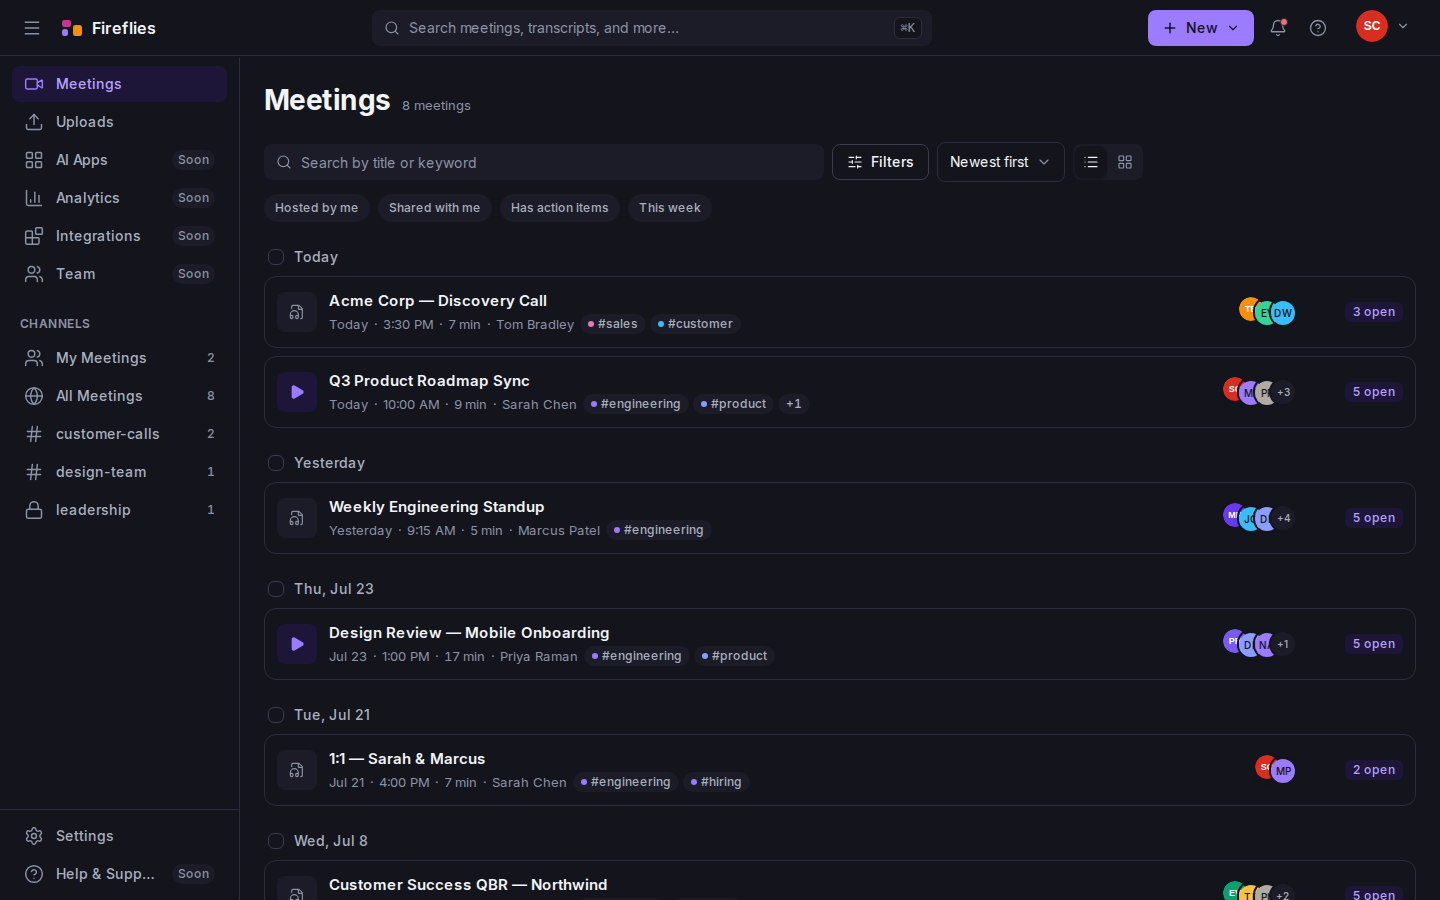
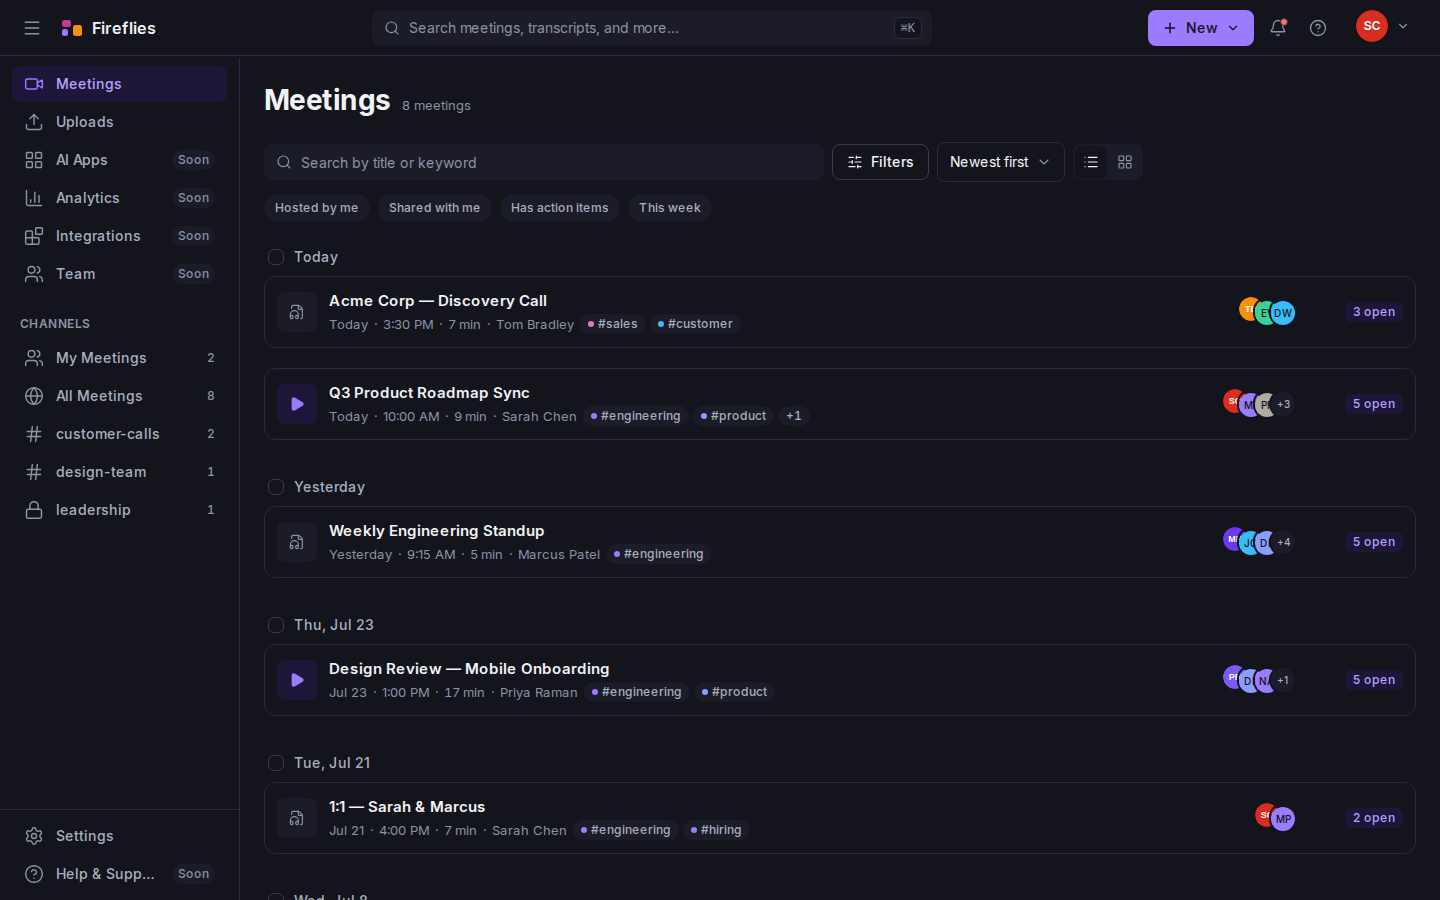
T-46.1: take the notebook's vertical rhythm from the reference (ADR-149)
The audit's "Measured, not eyeballed" table marked four metrics exact — and
they are, against design.md. That is our spec, not Fireflies', so it was
reporting conformance to ourselves as fidelity to them.

Measured against the reference PNG instead, as ratios (the captures differ in
width and the reference's DPR is unknown). Type scale was right at 0.268 vs
0.255. Density was not: the gap between cards inside one date group was 0.127
of card height against their 0.274 — less than half. Several side-by-side
passes on the same day never showed it. It took measuring.

Both gaps now come from the reference: row-gap 20px, group-gap 36px, named in
tailwind.config.ts with the derivation. Measured after: 0.296 and 0.944
against 0.274 and 0.94.

Row height stays 72px though it is 15% tighter than theirs. That token is
load-bearing where the gaps are not — design.md fixes it, T12-B asserts it,
ADR-036 kept it deliberately, and the virtualiser sizes items from it, so a
wrong value breaks scrolling rather than looking slightly off. Recorded open.

The skeleton needed restructuring: it flattened heading-to-card and
card-to-card into one space-y-2, so once those diverged it would have stood in
for a list taller than itself and content would have jumped on load — the one
thing a skeleton exists to prevent. No test asserts inter-row gaps, only row
height, so nothing would have caught it.

Six baselines moved, all notebook, which is the evidence the change stayed
where it was aimed.

diff --git a/frontend/src/components/ui/skeleton.tsx b/frontend/src/components/ui/skeleton.tsx
@@ -137,7 +137,7 @@ export function MeetingListSkeleton({
       aria-label="Loading meetings"
       // Matches the real list's group spacing, so the whole block is the same
       // height as what replaces it.
-      className="space-y-6"
+      className="space-y-group-gap"
     >
       {groups.map((size, groupIndex) => (
         <div key={groupIndex} className="space-y-2">
@@ -146,9 +146,20 @@ export function MeetingListSkeleton({
             <Skeleton variant="rect" className="h-4 w-4 shrink-0" />
             <Skeleton variant="text" className="h-[22px] w-24" />
           </div>
-          {Array.from({ length: size }, (_, index) => (
-            <MeetingRowSkeleton key={index} idSuffix={idSuffix} />
-          ))}
+          {/*
+            The rows get their OWN wrapper, because the real list spaces
+            heading-to-first-card (8px, this div) differently from card-to-card
+            (`row-gap`, the <ul>). Flattening both into one `space-y-2` here —
+            which is what this used to do — would make the skeleton shorter
+            than the list it stands in for, and the content would jump the
+            moment real rows arrived. That is the one thing a skeleton exists
+            to prevent.
+          */}
+          <div className="space-y-row-gap">
+            {Array.from({ length: size }, (_, index) => (
+              <MeetingRowSkeleton key={index} idSuffix={idSuffix} />
+            ))}
+          </div>
         </div>
       ))}
     </div>

diff --git a/frontend/tailwind.config.ts b/frontend/tailwind.config.ts
@@ -234,6 +234,21 @@ const config: Config = {
         'rail-collapsed': '64px',
         'icon-rail': '56px',
         row: '72px',
+
+        /*
+         * Notebook list rhythm, derived from `docs/reference/fireflies/02.png`
+         * rather than chosen (T-46.1, ADR-149). Measured as ratios of card
+         * height, because the reference was captured at a different width:
+         *
+         *   between cards in one date group   0.274 x card  ->  0.274 x 72 = 20px
+         *   across a date-group heading       0.94  x card  ->  67px total,
+         *     of which the heading and its own 8px gap supply 31 -> 36px here
+         *
+         * Named, not inlined, because the skeleton has to mirror them exactly
+         * or the list jumps when real rows replace it.
+         */
+        'row-gap': '20px',
+        'group-gap': '36px',
         'btn-sm': '32px',
         'btn-md': '36px',
         'btn-lg': '40px',

diff --git a/frontend/src/features/notebook/notebook-view.tsx b/frontend/src/features/notebook/notebook-view.tsx
@@ -622,7 +622,12 @@ function GroupedList({
   }
 
   return (
-    <div ref={listRef} onKeyDown={onKeyDown} className="space-y-6" data-testid="meeting-list">
+    <div
+      ref={listRef}
+      onKeyDown={onKeyDown}
+      className="space-y-group-gap"
+      data-testid="meeting-list"
+    >
       {groups.map((group) => {
         const groupIds = group.items.map((m) => m.id)
         const allSelected = groupIds.every((id) => selection.isSelected(id))
@@ -644,7 +649,7 @@ function GroupedList({
               </div>
             )}
 
-            <ul className="space-y-2">
+            <ul className="space-y-row-gap">
               {group.items.map((meeting) => (
                 <MeetingRow
                   key={meeting.id}

diff --git a/docs/ui-audit.md b/docs/ui-audit.md
@@ -35,12 +35,12 @@ edge-detecting full-width rules in `docs/reference/fireflies/02.png` and
 widths, so everything below is a **ratio** — scale- and DPR-independent, which
 sidesteps having to know what device pixel ratio the reference was shot at:
 
-| Ratio | Fireflies | Ours | |
-|---|---|---|---|
-| Row title type ÷ topbar height | 0.268 | 0.255 | within 5% — type scale is right |
-| Card height ÷ topbar height | 1.51 | 1.29 | **ours 15% tighter** |
-| Gap between cards in one date group ÷ card height | 0.274 | 0.127 | **ours 54% tighter** |
-| Gap across a date-group heading ÷ card height | 0.94 | 0.78 | **ours 18% tighter** |
+| Ratio | Fireflies | Ours (before) | Ours (now) | |
+|---|---|---|---|---|
+| Row title type ÷ topbar height | 0.268 | 0.255 | 0.255 | type scale was already right |
+| Card height ÷ topbar height | 1.51 | 1.29 | 1.29 | **still 15% tighter — open, see below** |
+| Gap between cards in one date group ÷ card height | 0.274 | 0.127 | **0.296** | fixed (ADR-149) |
+| Gap across a date-group heading ÷ card height | 0.94 | 0.78 | **0.944** | fixed (ADR-149) |
 
 Raw measurements, for anyone re-deriving: Fireflies' cards are 107–108px with
 29–30px between cards in a group and ~101px across a group heading, on a 71px
@@ -62,18 +62,24 @@ pixels. Two different methods, stated rather than blended, because publishing a
 measured-looking number that was actually a bad threshold is the specific
 mistake this document has already made three times.
 
-**The type scale is right and the density is not.** Our list is meaningfully
-tighter than the reference — most of all in the gap between cards inside one
-date group, which is less than half the reference's in proportional terms. That
-is a spacing difference on the single most-compared screen, which is the
-criterion weighted highest, and no amount of looking at the two images side by
-side had made me see it. It took measuring.
+**The type scale was right and the density was not** — most of all the gap
+between cards inside one date group, which was less than half the reference's
+in proportional terms. No amount of looking at the two images side by side had
+made me see it, including several passes on the same day. It took measuring.
 
-Not changed in this pass — see *Not fixed here*. The 72px row height is pinned
-by `design.md`, by T12-B, and by the skeleton that mirrors it, so this is a
-token-layer decision rather than a CSS tweak, and it re-baselines 165 visual
-snapshots. It is specified and queued rather than rushed at the end of a
-verification cycle.
+**Both gaps are now taken from the reference** (ADR-149): `row-gap: 20px` and
+`group-gap: 36px`, named in `tailwind.config.ts` with the derivation, because
+the skeleton has to mirror them exactly. Six visual baselines moved —
+`notebook-list` in both themes and the four responsive widths — and nothing
+else, which is the evidence the change stayed on the surface it was meant for.
+
+**The row height is deliberately still 1.29 against their 1.51.** Matching it
+means 72px → ~85px, and that token is load-bearing in a way the gaps are not:
+`design.md` §3.7 fixes it, T12-B asserts it, ADR-036 kept it on purpose, the
+skeleton is pinned to it, and the virtualiser sizes its items from it — a wrong
+value there breaks scrolling rather than looking slightly off. Closing a 54%
+deviation and leaving a 15% one is the right trade when the second costs an
+order of magnitude more risk. Open, not dropped.
 
 ## Differences we are keeping, and why
 
@@ -260,10 +266,10 @@ rather than by re-reading the code:
 - **Item 10 is a spacing defect** — the Settings form leaves 60% of its column
   empty. Open, with the fix identified.
 
-- **The list is 15–54% denser than the reference** — measured, not eyeballed;
-  see the ratio table at the top. Queued with item 10: both are token-layer
-  spacing changes that re-baseline the same 165 visual snapshots, so they
-  should land together, in one review, with the baselines regenerated once.
+- **The list's gaps were 54% and 18% tighter than the reference** — measured,
+  not eyeballed. **Fixed** (ADR-149). The row height remains 15% tighter and is
+  deliberately open: matching it means changing a token the virtualiser sizes
+  from, which trades a visible-but-small difference for a scrolling bug.
 
 Items 2–8 remain scope or convention decisions with reasons. Item 9 is a
 deliberate behaviour with a missing affordance. If an evaluator disagrees with

diff --git a/docs/decisions.md b/docs/decisions.md
@@ -3317,3 +3317,59 @@ functions are easy to confuse at a call site and confusing them is precisely
 the defect recorded here.
 
 ---
+
+## ADR-149 — The notebook's vertical rhythm comes from the reference, not the plan
+
+**Date:** 2026-07-28 · **Task:** T-46.1 · **Status:** Accepted
+
+**Context.** T-46.1's side-by-side audit had concluded the notebook matched. Its
+"Measured, not eyeballed" table compared topbar height, sidebar width, row
+height and title type against `design.md` and marked all four *exact* — which
+they are. But `design.md` is our spec, not Fireflies', so the table was
+reporting conformance to ourselves as fidelity to them. The plan's unsampled
+values had already lost to the reference four times (ADR-011 accent, ADR-021
+rail, ADR-036 layout, ADR-148 duration).
+
+Measuring the notebook against `docs/reference/fireflies/02.png` instead — by
+edge-detecting full-width rules in both images and comparing **ratios**, since
+the captures differ in width and the reference's device pixel ratio is unknown:
+
+| Ratio | Fireflies | Ours (before) |
+|---|---|---|
+| Title type ÷ topbar | 0.268 | 0.255 |
+| Card height ÷ topbar | 1.51 | 1.29 |
+| Gap between cards in a group ÷ card | 0.274 | **0.127** |
+| Gap across a group heading ÷ card | 0.94 | 0.78 |
+
+The type scale was right. The density was not, and the worst of it was the gap
+between cards inside one date group: less than half the reference's. Nobody had
+seen it by looking, including me, across several side-by-side passes in one day.
+
+**Decision.** Take the two gaps from the reference; leave the row height alone.
+
+- `row-gap: 20px` (0.274 × 72) between cards in a group — measured 0.296 after.
+- `group-gap: 36px`, which with the heading and its own 8px gap totals 67px
+  across a group boundary — measured 0.944 after, against the reference's 0.94.
+
+Both are named tokens in `tailwind.config.ts` beside `row: 72px`, with the
+derivation in a comment, because the config already establishes that layout
+sizes are named rather than inlined — and because the skeleton has to mirror
+them exactly.
+
+**Why the row height is NOT changed**, though it is 15% tighter than the
+reference at 1.29 against 1.51. Matching it means 72px → ~85px, and that token
+is load-bearing in a way the gaps are not: `design.md` §3.7 fixes it, T12-B
+asserts it, ADR-036 deliberately kept it, the skeleton is pinned to it, and the
+virtualiser sizes its items from it — a wrong value there breaks scrolling
+rather than looking slightly off. Closing a 54% deviation while leaving a 15%
+one is the right trade when the second costs an order of magnitude more risk.
+It is recorded as open in `docs/ui-audit.md` rather than quietly dropped.
+
+**Consequences.** Six visual baselines moved — `notebook-list` in both themes
+and the four responsive widths — and nothing else, which is itself the evidence
+that the change is contained to the surface it was meant for. The skeleton
+needed restructuring: it had flattened heading-to-first-card and card-to-card
+into one `space-y-2`, so once those diverged it would have stood in for a list
+taller than itself and the content would have jumped on load. That is the one
+thing a skeleton exists to prevent, and no test asserts inter-row gaps — only
+row height — so it would not have been caught.
